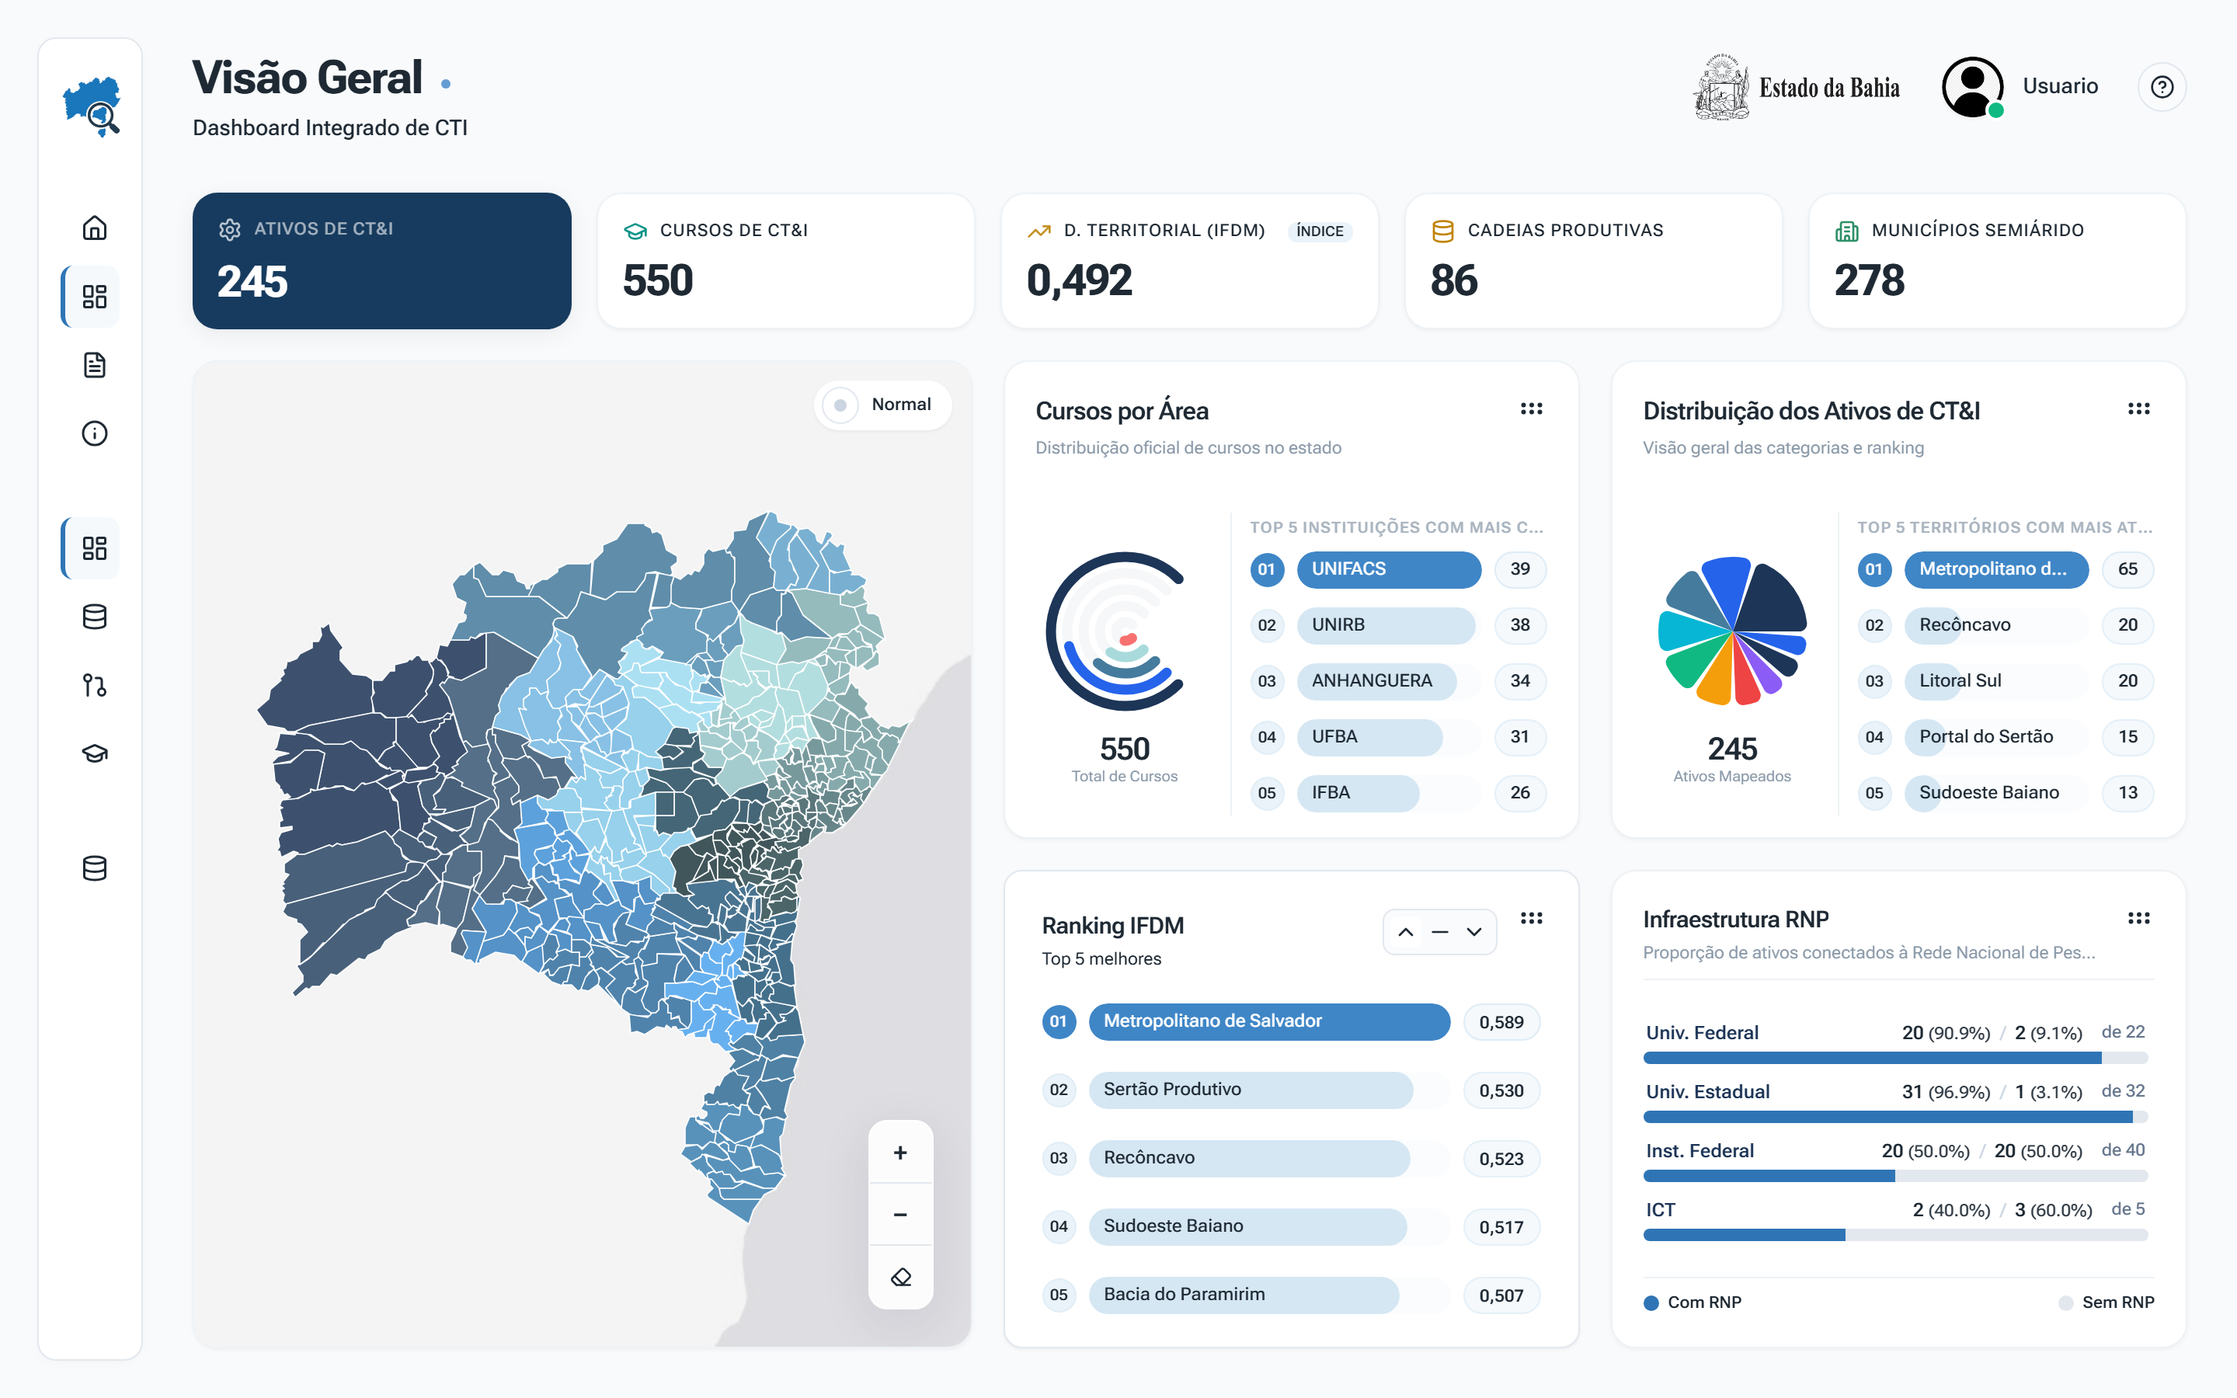
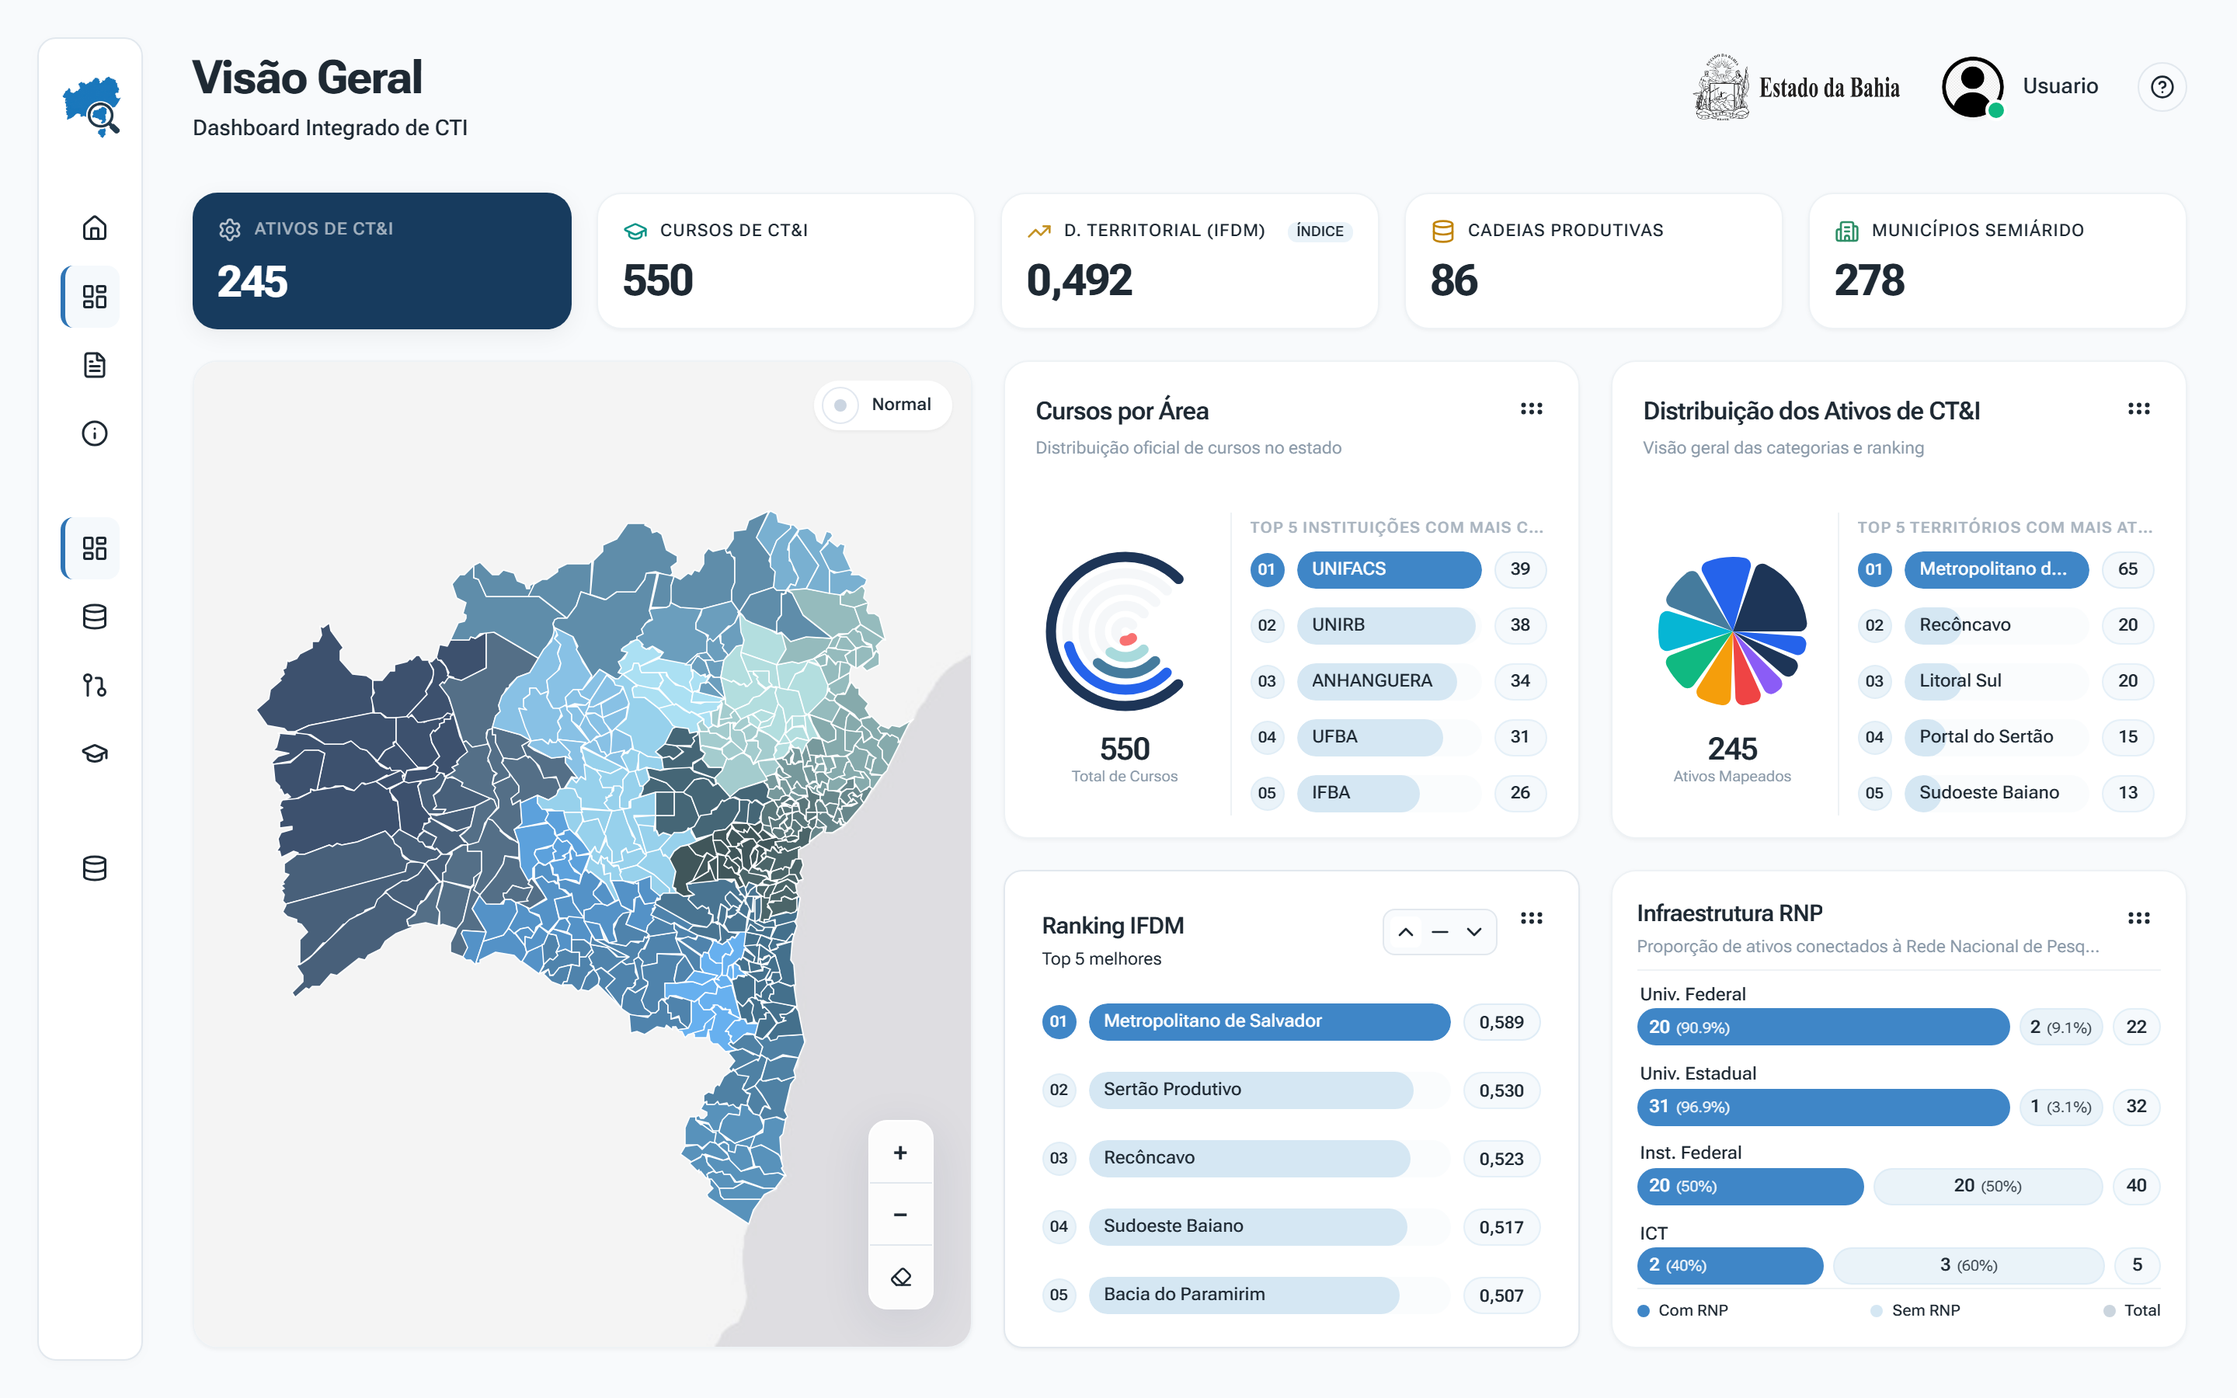
20

Changed region(s): [[0.7188, 0.6533, 0.9688, 0.9644], [0.8438, 0.9333, 0.875, 0.9644]]

diff --git a/src/components/graph/ProportionBarChart.jsx b/src/components/graph/ProportionBarChart.jsx
@@ -26,7 +26,9 @@ export default function ProportionBarChart({
     negativeTextColor = "text-blue-600",
     badge = null,
     cardClassName = '',
-    isReport = false
+    isReport = false,
+    isVisaoGeral = false,
+    isSemiarido = false
 }) {
     if (isReport) {
         // MODO RELATÓRIO PDF (Tipografia institucional ampliada para 1920x1080)
@@ -92,7 +94,138 @@ export default function ProportionBarChart({
         );
     }
 
-    // MODO DASHBOARD INTERATIVO (Perfeito para o painel principal, auto-ajustável sem overflow)
+    // MODO VISÃO GERAL (Novo padrão de pílulas comparativas proporcionais: [ A (xx%) ] [ B (yy%) ] [ TOTAL ])
+    if (isVisaoGeral) {
+        const isSemi = isSemiarido || cardClassName.includes('semiarido') || !!badge;
+        const posPillColor = isSemi ? 'bg-amber-600' : (positiveColor || 'bg-primary-500');
+        const negPillStyle = isSemi
+            ? 'bg-amber-500/15 text-amber-900 border border-amber-500/20'
+            : 'bg-primary-100 text-primary-700 border border-primary-200/60';
+        const totalPillStyle = isSemi
+            ? 'bg-amber-500/15 text-amber-900 border border-amber-500/20'
+            : 'bg-primary-50 text-primary-700 border border-primary-200/60';
+
+        return (
+            <div className={`flex-1 bg-surface rounded-2xl border border-neutral-100 shadow-card transition-all duration-500 hover:shadow-card-elevated p-4 relative flex flex-col justify-between h-full group cursor-default overflow-hidden ${cardClassName}`}>
+                {/* CABEÇALHO */}
+                <div className="flex justify-between items-start mb-1.5 relative z-10 w-full pr-9 shrink-0">
+                    <div className="flex flex-col min-w-0">
+                        <div className="flex items-center gap-2">
+                            <h2 className="text-text-primary font-semibold text-[15px] tracking-tight truncate">{title}</h2>
+                            {badge && (
+                                <span className="inline-flex items-center gap-1 px-2 py-0.5 rounded-md text-[10px] font-semibold bg-amber-500/15 text-amber-600 border border-amber-500/30 shrink-0">
+                                    <span className="w-1.5 h-1.5 rounded-full bg-amber-500 animate-pulse"></span>
+                                    {badge}
+                                </span>
+                            )}
+                        </div>
+                        <p className="text-neutral-500 text-[11px] font-normal mt-0.5 truncate">{subtitle}</p>
+                    </div>
+                </div>
+
+                <div className="w-full h-px bg-neutral-100 mb-1.5 shrink-0"></div>
+
+                {/* LISTA COMPARATIVA: NOME + [ A (xx%) ] [ B (yy%) ] [ TOTAL ] */}
+                <div className={`flex flex-col justify-between flex-1 w-full ${data.length > 4 ? 'gap-1 py-0' : 'gap-2 py-0.5'} my-auto min-h-0 overflow-hidden`}>
+                    {data.map((item, idx) => {
+                        const pos = Number(item.positive || 0);
+                        const neg = Number(item.negative || 0);
+                        const total = Number(item.total || (pos + neg)) || 1;
+                        const percentPos = Number(((pos / total) * 100).toFixed(1));
+                        const percentNeg = Number(((neg / total) * 100).toFixed(1));
+
+                        const isCompact = data.length > 4;
+                        const pillH = isCompact ? 'h-[20px]' : 'h-[24px]';
+                        const textMain = isCompact ? 'text-[10.5px]' : 'text-[11.5px]';
+                        const textSub = isCompact ? 'text-[8.5px]' : 'text-[9.5px]';
+                        const labelText = isCompact ? 'text-[10.5px]' : 'text-[11.5px]';
+                        const minWPos = isCompact ? '50px' : '56px';
+                        const minWNeg = isCompact ? '48px' : '54px';
+
+                        return (
+                            <div key={idx} className="flex flex-col gap-0.5 w-full group/item">
+                                {/* NOME */}
+                                <div className={`${labelText} font-medium text-text-primary leading-tight truncate px-0.5`} title={item.label}>
+                                    {item.label}
+                                </div>
+
+                                {/* BARRAS COMPARATIVAS [ A (xx%) ] [ B (yy%) ] [ TOTAL ] */}
+                                <div className="flex items-center gap-1.5 w-full">
+                                    {/* PARTE A (Positivo) */}
+                                    {pos > 0 && (
+                                        <div
+                                            className={`${pillH} rounded-full ${posPillColor} flex items-center px-2 text-white transition-all duration-500 overflow-hidden shrink-0 select-none shadow-2xs`}
+                                            style={{
+                                                flexGrow: pos,
+                                                flexBasis: 0,
+                                                minWidth: neg > 0 ? minWPos : 'auto'
+                                            }}
+                                            title={`${positiveLabel}: ${pos} (${percentPos}%)`}
+                                        >
+                                            <span className={`${textMain} font-semibold tabular-nums leading-none`}>
+                                                {pos}
+                                            </span>
+                                            <span className={`${textSub} font-normal opacity-90 ml-1 tabular-nums leading-none`}>
+                                                ({percentPos}%)
+                                            </span>
+                                        </div>
+                                    )}
+
+                                    {/* PARTE B (Negativo) */}
+                                    {neg > 0 && (
+                                        <div
+                                            className={`${pillH} rounded-full ${negPillStyle} flex items-center justify-center px-2 transition-all duration-500 overflow-hidden shrink-0 select-none shadow-2xs`}
+                                            style={{
+                                                flexGrow: neg,
+                                                flexBasis: 0,
+                                                minWidth: pos > 0 ? minWNeg : 'auto'
+                                            }}
+                                            title={`${negativeLabel}: ${neg} (${percentNeg}%)`}
+                                        >
+                                            <span className={`${textMain} font-semibold tabular-nums leading-none`}>
+                                                {neg}
+                                            </span>
+                                            <span className={`${textSub} font-normal opacity-85 ml-1 tabular-nums leading-none`}>
+                                                ({percentNeg}%)
+                                            </span>
+                                        </div>
+                                    )}
+
+                                    {/* TOTAL PILL */}
+                                    <div
+                                        className={`${pillH} min-w-[30px] px-2 rounded-full ${totalPillStyle} flex items-center justify-center shrink-0 select-none shadow-2xs`}
+                                        title={`Total: ${total}`}
+                                    >
+                                        <span className={`${textMain} font-semibold tabular-nums leading-none`}>
+                                            {total}
+                                        </span>
+                                    </div>
+                                </div>
+                            </div>
+                        );
+                    })}
+                </div>
+
+                {/* LEGENDA NO RODAPÉ */}
+                <div className="flex items-center justify-between gap-4 pt-1.5 border-t border-neutral-100 shrink-0 text-[10px] font-medium mt-auto">
+                    <div className="flex items-center gap-1.5">
+                        <span className={`w-2 h-2 rounded-full ${posPillColor} shadow-2xs`}></span>
+                        <span className={isSemi ? "text-amber-800" : "text-primary-700"}>{positiveLabel}</span>
+                    </div>
+                    <div className="flex items-center gap-1.5">
+                        <span className={`w-2 h-2 rounded-full ${isSemi ? 'bg-amber-500/40' : 'bg-primary-200'} shadow-2xs`}></span>
+                        <span className={isSemi ? "text-amber-800" : "text-primary-700"}>{negativeLabel}</span>
+                    </div>
+                    <div className="flex items-center gap-1.5 text-text-muted">
+                        <span className="w-2 h-2 rounded-full bg-neutral-300 shadow-2xs"></span>
+                        <span>Total</span>
+                    </div>
+                </div>
+            </div>
+        );
+    }
+
+    // MODO DASHBOARD INTERATIVO PADRÃO (Mantido intacto para qualquer outro chamador genérico)
     return (
         <div className={`flex-1 bg-surface rounded-2xl border border-neutral-100 shadow-card transition-all duration-500 hover:shadow-card-elevated p-4 lg:p-5 relative flex flex-col justify-between h-full group cursor-default overflow-hidden ${cardClassName}`}>
             {/* CABEÇALHO COM PADDING À DIREITA PARA NÃO COLIDIR COM O DRAG HANDLE */}

diff --git a/src/components/DashboardPainel.jsx b/src/components/DashboardPainel.jsx
@@ -351,7 +351,6 @@ export default function DashboardPainel() {
       'Univ. Federal': { semi: 0, nonSemi: 0 },
       'Univ. Estadual': { semi: 0, nonSemi: 0 },
       'Inst. Federal': { semi: 0, nonSemi: 0 },
-      'ICTs e Centros': { semi: 0, nonSemi: 0 },
       'Cursos Presenciais': { semi: 0, nonSemi: 0 }
     };
 
@@ -363,7 +362,6 @@ export default function DashboardPainel() {
       if (str.includes('federal') && str.includes('universidade')) cat = 'Univ. Federal';
       else if (str.includes('estadual')) cat = 'Univ. Estadual';
       else if (str.includes('instituto federal') || str.includes('ifba') || str.includes('if baiano')) cat = 'Inst. Federal';
-      else if (str.includes('ict') || str.includes('pesquisa') || str.includes('centro')) cat = 'ICTs e Centros';
 
       if (cat) {
         if (isSemi) stats[cat].semi += 1;
@@ -384,7 +382,7 @@ export default function DashboardPainel() {
         negative: v.nonSemi,
         total: v.semi + v.nonSemi
       }))
-      .filter(row => row.total > 0);
+      .filter(row => row.total > 0 && row.positive > 0);
   }, [scopedAtivos, scopedCursos, ativosData]);
 
   // Territórios filtrados por presença no Semiárido para o ranking
@@ -605,13 +603,6 @@ export default function DashboardPainel() {
         <div>
           <div className="flex items-center gap-3 relative z-10">
             <h1 className="text-3xl font-bold text-text-primary tracking-tight">Visão Geral</h1>
-            <div className="carto-node mt-2 opacity-80"></div>
-            {filtroSemiarido && (
-              <span className="inline-flex items-center gap-1.5 px-2.5 py-0.5 rounded-full text-xs font-semibold bg-amber-500/15 text-amber-600 border border-amber-500/30 shadow-2xs">
-                <SunMedium size={13} className="text-amber-500" />
-                Semiárido Ativo ({semiaridoMetrics.munSemi} mun.)
-              </span>
-            )}
           </div>
           <p className="text-sm text-text-secondary mt-1 font-medium">Dashboard Integrado de CTI</p>
           <div className="divider-territorial w-48 mt-3"></div>
@@ -637,7 +628,9 @@ export default function DashboardPainel() {
                 title={kpi.tooltip || kpi.label}
                 className={`relative rounded-2xl p-4 flex flex-col justify-between h-[88px] cursor-default overflow-hidden transition-all duration-500 hover:shadow-card-elevated ${
                   isHero
-                    ? 'bg-primary-900 text-white shadow-card-elevated'
+                    ? (filtroSemiarido
+                        ? 'bg-gradient-to-br from-amber-500 to-amber-600 text-white shadow-card-elevated shadow-amber-500/20'
+                        : 'bg-primary-900 text-white shadow-card-elevated')
                     : (filtroSemiarido
                         ? 'bg-white/95 border border-amber-200/40 shadow-card'
                         : 'bg-surface border border-neutral-100 shadow-card')
@@ -645,10 +638,10 @@ export default function DashboardPainel() {
               >
                 {/* LINHA SUPERIOR: ÍCONE + TÍTULO */}
                 <div className="flex items-center gap-2 w-full min-w-0">
-                  <kpi.icon size={16} strokeWidth={2} className={isHero ? accentColors[0] : accentColors[index]} />
+                  <kpi.icon size={16} strokeWidth={2} className={isHero ? (filtroSemiarido ? 'text-white/90' : accentColors[0]) : accentColors[index]} />
                   <span
                     className={`text-[11px] font-medium uppercase tracking-wider truncate flex-1 ${
-                      isHero ? 'text-white/60' : 'text-text-muted'
+                      isHero ? (filtroSemiarido ? 'text-amber-100' : 'text-white/60') : 'text-text-muted'
                     }`}
                     title={kpi.label}
                   >
@@ -673,7 +666,7 @@ export default function DashboardPainel() {
                     </span>
                     {filtroSemiarido && kpi.percent && (
                       <span className={`text-[12px] font-semibold ${
-                        isHero ? 'text-amber-300' : 'text-amber-600'
+                        isHero ? 'text-amber-100/90 font-medium' : 'text-amber-600'
                       }`}>
                         ({kpi.percent})
                       </span>
@@ -776,15 +769,17 @@ export default function DashboardPainel() {
                   {cardId === 'card-mapeamento' && (
                     <SortableCard id="card-mapeamento">
                       <ProportionBarChart
+                        isVisaoGeral={true}
+                        isSemiarido={filtroSemiarido}
                         data={filtroSemiarido ? semiaridoStackedComparisonData : rnpComparisonData}
                         title={filtroSemiarido ? "Distribuição no Semiárido" : "Infraestrutura RNP"}
                         subtitle={filtroSemiarido ? "No Semiárido vs. Fora do Semiárido" : (selectedTerritory ? `Proporção de ativos conectados à RNP em ${territoryName}` : 'Proporção de ativos conectados à Rede Nacional de Pesquisa')}
                         positiveLabel={filtroSemiarido ? "No Semiárido" : "Com RNP"}
                         negativeLabel={filtroSemiarido ? "Fora do Semiárido" : "Sem RNP"}
-                        positiveColor={filtroSemiarido ? "bg-amber-500" : "bg-primary-600"}
-                        negativeColor={filtroSemiarido ? "bg-blue-600" : "bg-neutral-200"}
-                        positiveTextColor={filtroSemiarido ? "text-amber-600" : "text-primary-700"}
-                        negativeTextColor={filtroSemiarido ? "text-blue-600" : "text-text-muted"}
+                        positiveColor={filtroSemiarido ? "bg-amber-600" : "bg-primary-500"}
+                        negativeColor={filtroSemiarido ? "bg-amber-500/15" : "bg-primary-100"}
+                        positiveTextColor={filtroSemiarido ? "text-amber-700" : "text-primary-700"}
+                        negativeTextColor={filtroSemiarido ? "text-amber-800" : "text-primary-700"}
                         badge={null}
                         cardClassName={filtroSemiarido ? 'semiarido-card-warmth-4' : ''}
                       />
